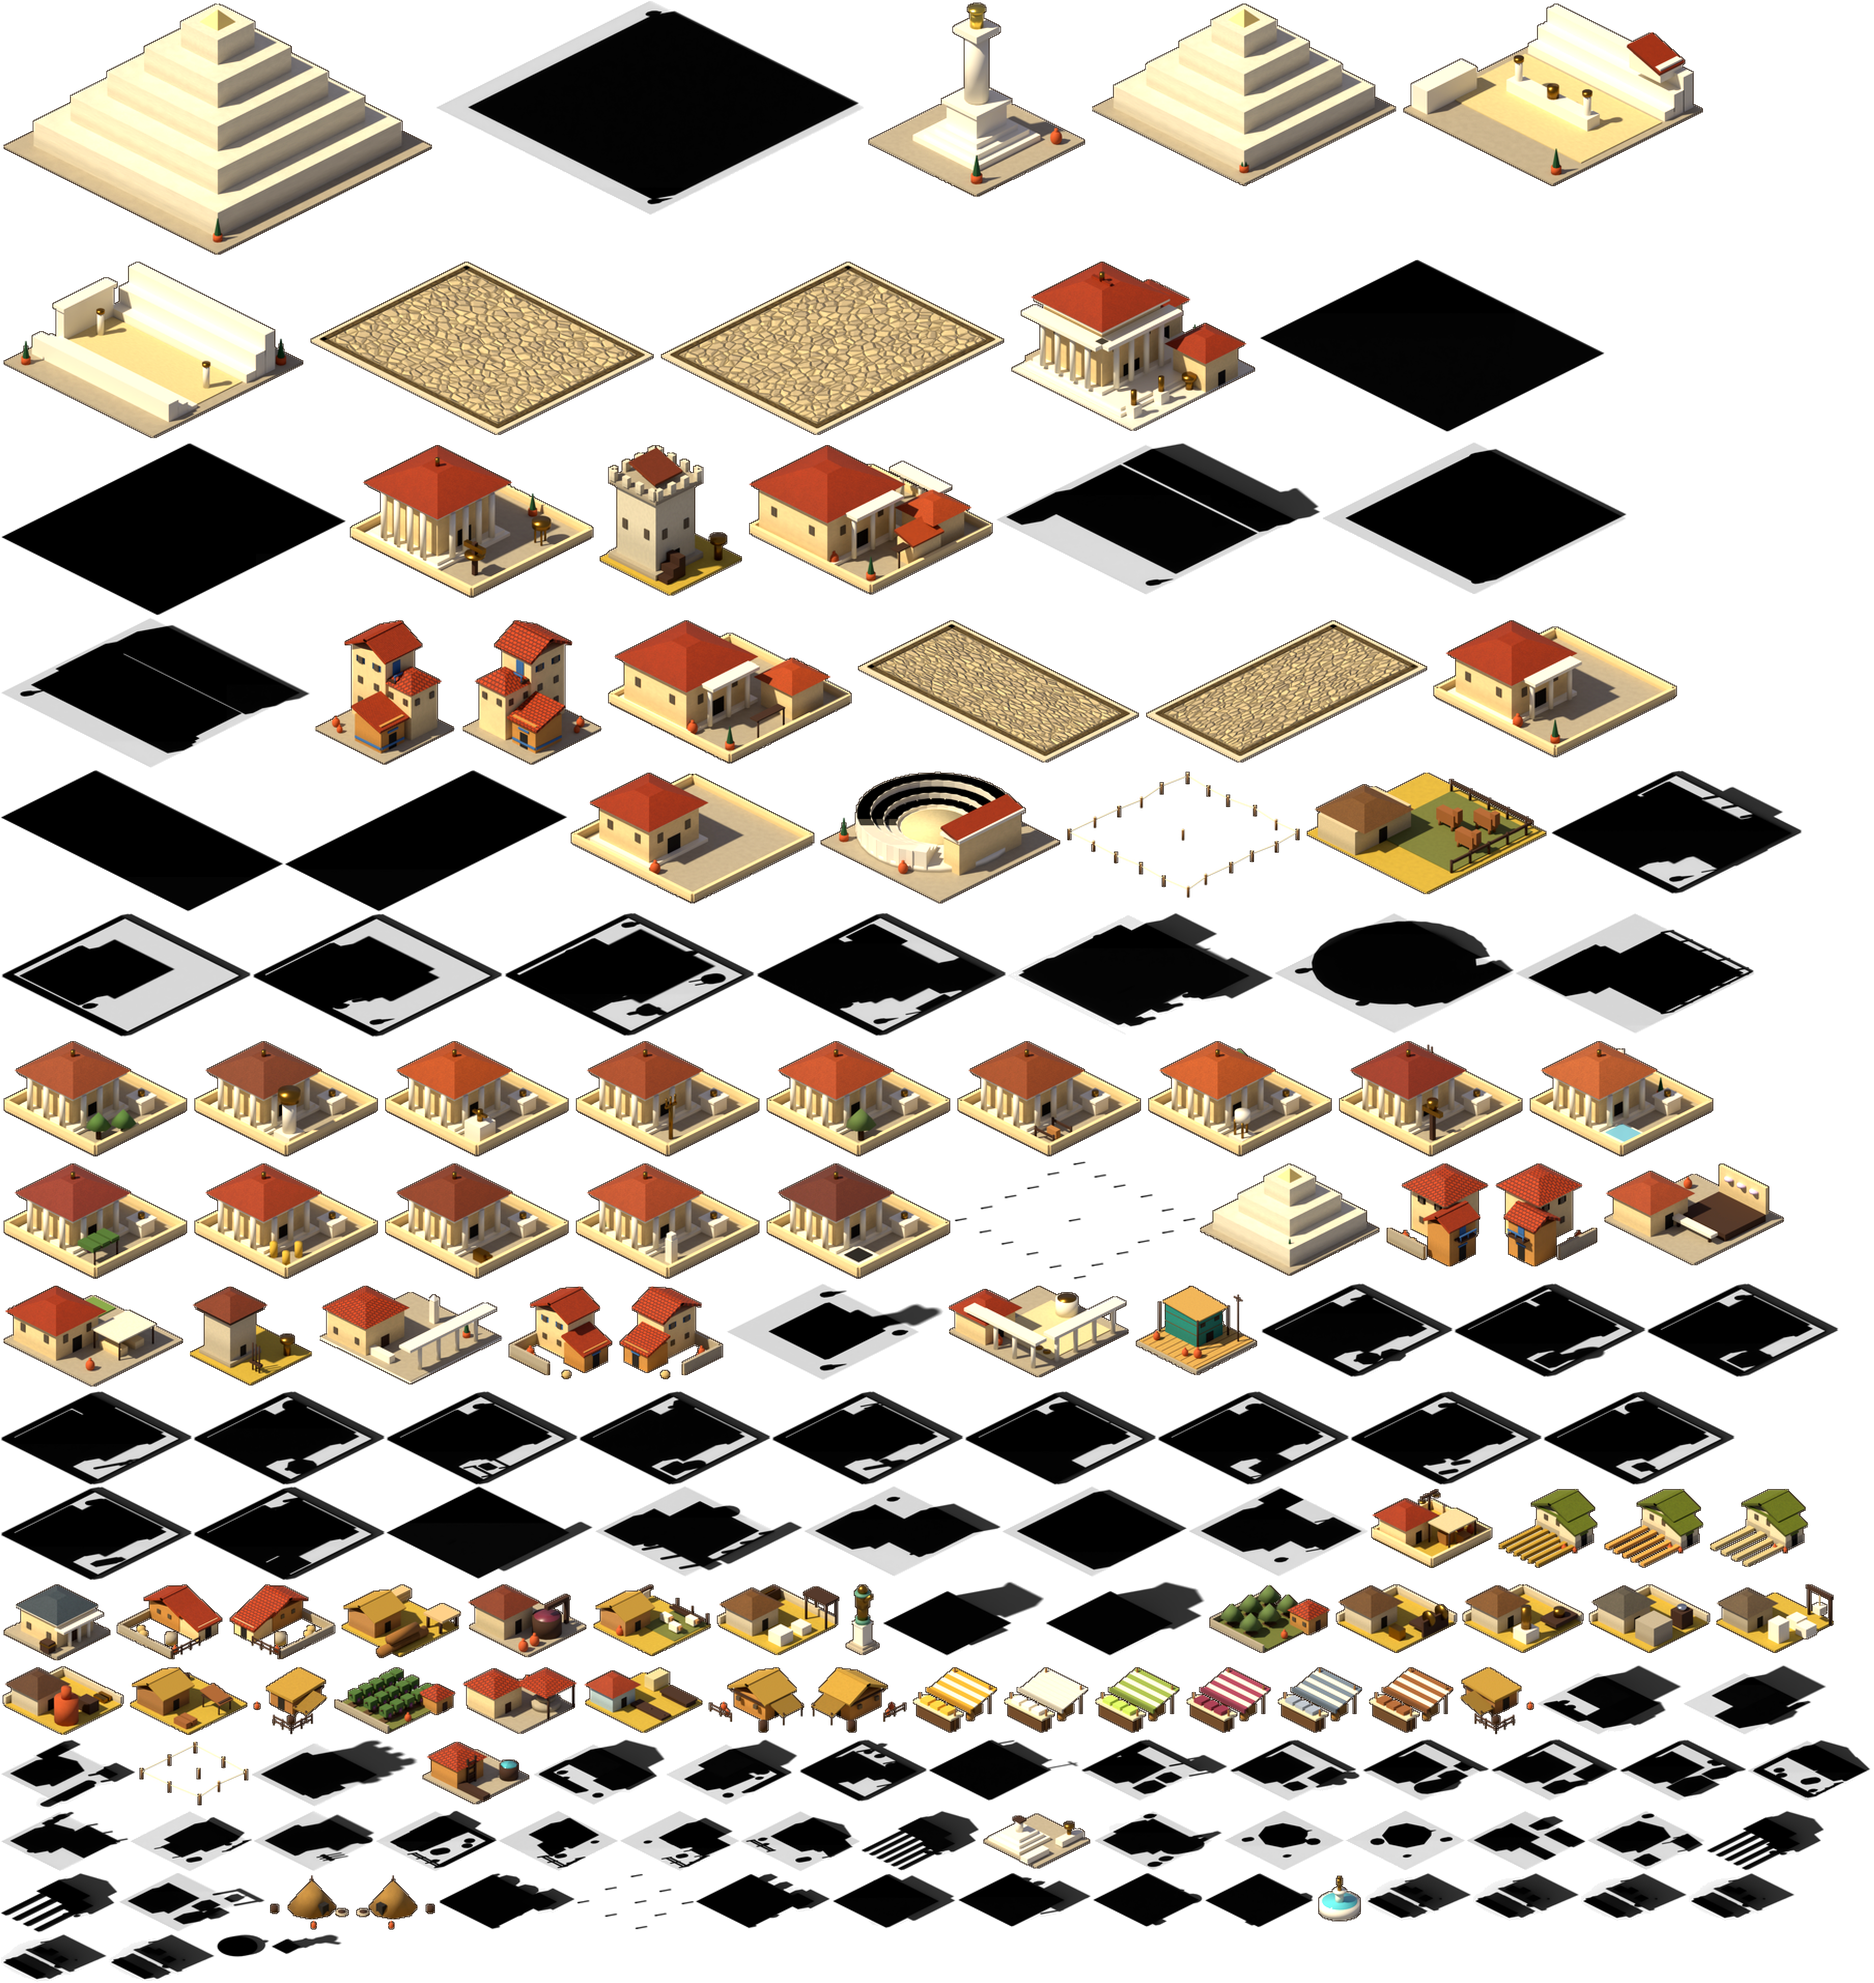
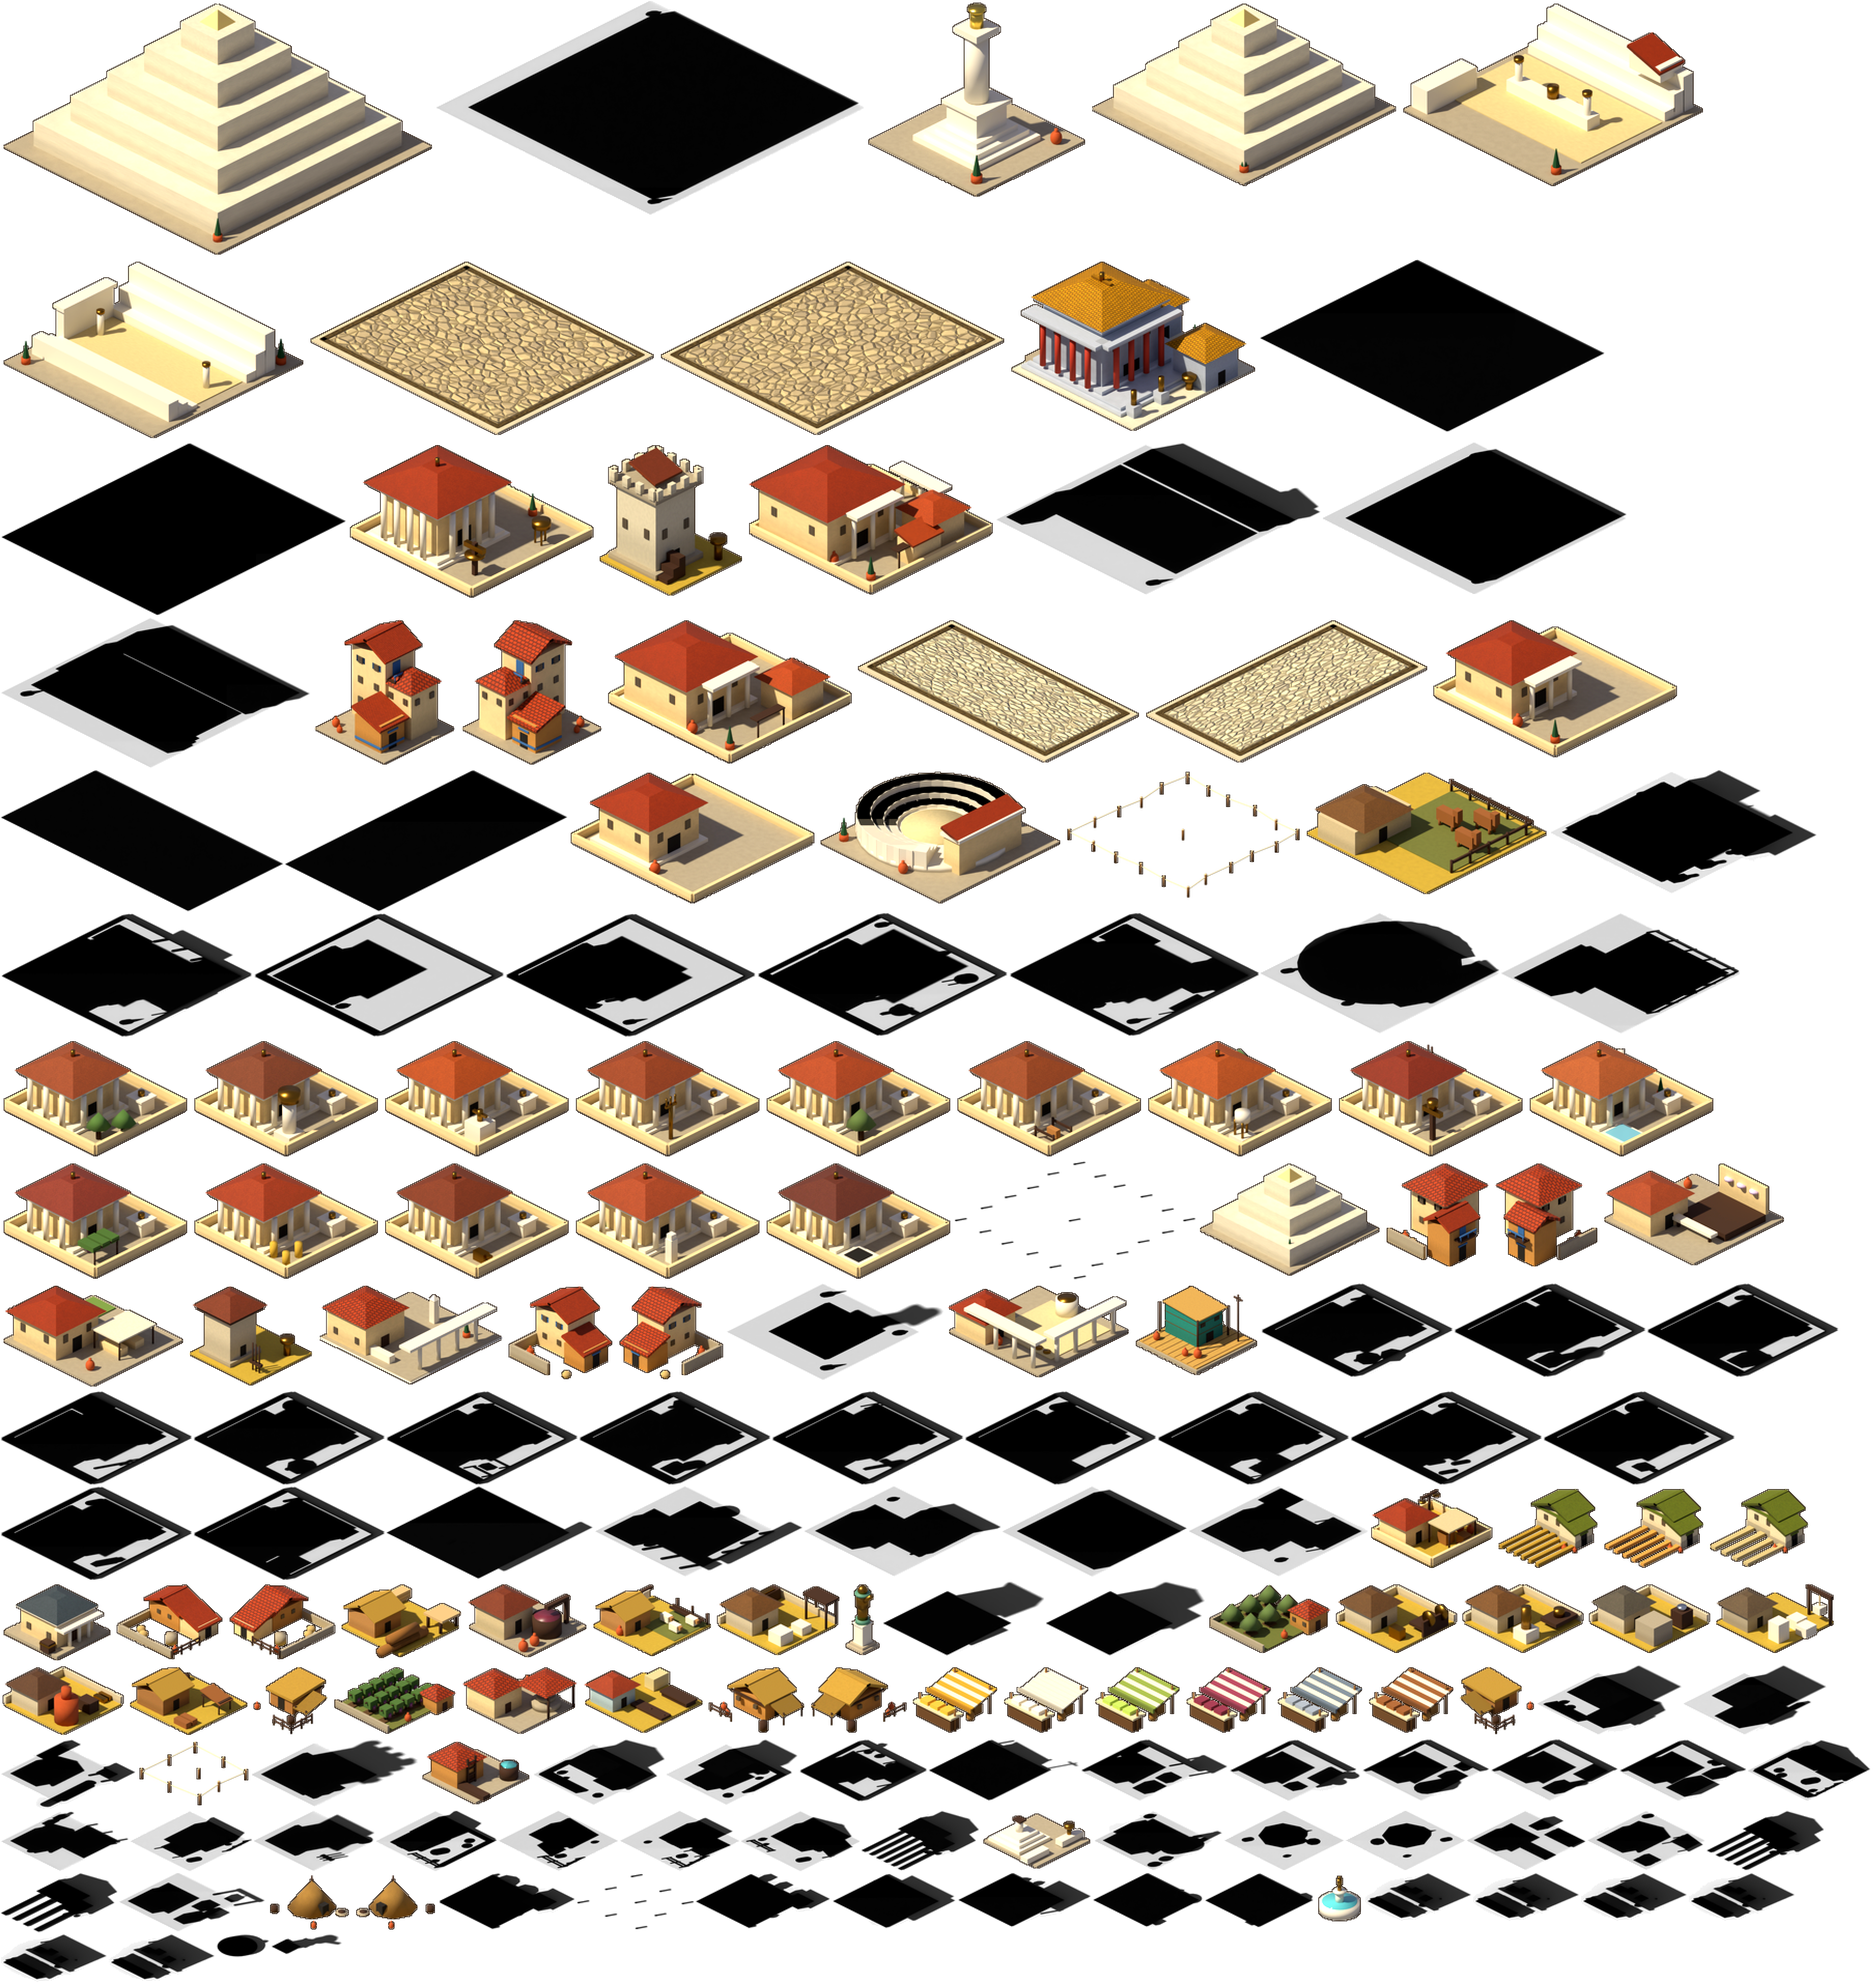
Gild the palace, lighten the agora, pin the map by seed

diff --git a/pipeline/iso_render.py b/pipeline/iso_render.py
@@ -941,7 +941,7 @@ def build_granary():
 def build_agora(kind, across, along, variant):
     """The agora itself is only its floor: cobbles inside a marble kerb, with a dark
     inlay running round them. Everything on it is a stall the player puts there."""
-    cobbles = cobble_material("cobbles", hex_rgb("cdbc98"), stones_per_unit=10.0, spread=0.26)
+    cobbles = cobble_material("cobbles", hex_rgb("ece2c2"), stones_per_unit=10.0, spread=0.22)
     kerb = plaster_material("kerb", hex_rgb("e0d6ba"), roughness=0.6, variation=0.04, scale=9.0)
     inlay = cobble_material("inlay", hex_rgb("947c4e"), stones_per_unit=14.0, spread=0.14)
 
@@ -1137,15 +1137,17 @@ def build_tax_office():
 
 
 def build_palace():
-    """Palace: a colonnaded hall on a stepped marble terrace, flanked by wings and statues."""
-    marble = material("marble", MARBLE, roughness=0.3)
-    paving = plaster_material("paving", MARBLE, roughness=0.6, variation=0.03, scale=18.0)
-    whitewash = plaster_material("whitewash", WHITEWASH, roughness=0.84, variation=0.04, scale=6.0)
-    terracotta = roof_material("terracotta", TERRACOTTA, rows_per_unit=18.0)
+    """Palace: a colonnaded hall on a stepped marble terrace, flanked by wings and statues.
+    Coloured as the original's: gold-glazed tile, blue-grey marble, red columns."""
+    marble = plaster_material("marble", hex_rgb("c9d0dc"), roughness=0.5, variation=0.1, scale=8.0)
+    paving = plaster_material("paving", hex_rgb("e8e2cc"), roughness=0.7, variation=0.08, scale=18.0)
+    whitewash = plaster_material("whitewash", hex_rgb("b9c2d2"), roughness=0.8, variation=0.14, scale=6.0)
+    terracotta = roof_material("gold_tile", hex_rgb("d9a020"), rows_per_unit=6.0)
     stone = plaster_material("stone", STONE, roughness=0.8, variation=0.05, scale=10.0)
     bronze = material("bronze", BRONZE, roughness=0.35, metallic=1.0)
     clay = material("clay", CLAY, roughness=0.8)
     cypress = material("cypress", CYPRESS, roughness=0.9)
+    column = material("column_red", hex_rgb("a83a2a"), roughness=0.7)
 
     terrace = add_box("terrace", (0, 0, 0.03), (3.9, 3.9, 0.06), paving)
     terrace.visible_shadow = False
@@ -1169,9 +1171,9 @@ def build_palace():
     add_cylinder("finial", (hx, hy, roof_z + roof_h + 0.12), 0.06, 0.2, bronze, vertices=10)
 
     for offset in (-0.72, -0.24, 0.24, 0.72):
-        add_cylinder("column_east", (hx + hall_half + 0.24, hy + offset, base_z + 0.1 + 0.6), 0.07, 1.2, marble, vertices=16)
+        add_cylinder("column_east", (hx + hall_half + 0.24, hy + offset, base_z + 0.1 + 0.6), 0.07, 1.2, column, vertices=16)
         add_box("capital_east", (hx + hall_half + 0.24, hy + offset, base_z + 0.1 + 1.22), (0.18, 0.18, 0.06), marble)
-        add_cylinder("column_south", (hx + offset, hy - hall_half - 0.24, base_z + 0.1 + 0.6), 0.07, 1.2, marble, vertices=16)
+        add_cylinder("column_south", (hx + offset, hy - hall_half - 0.24, base_z + 0.1 + 0.6), 0.07, 1.2, column, vertices=16)
         add_box("capital_south", (hx + offset, hy - hall_half - 0.24, base_z + 0.1 + 1.22), (0.18, 0.18, 0.06), marble)
     add_box("portico_east", (hx + hall_half + 0.24, hy, base_z + 1.36), (0.44, hall_half * 2 + 0.5, 0.1), marble)
     add_box("portico_south", (hx, hy - hall_half - 0.24, base_z + 1.36), (hall_half * 2 + 0.5, 0.44, 0.1), marble)

diff --git a/README.md b/README.md
@@ -266,7 +266,17 @@ identified by eye from the contact sheets and may be off by one.
 
 **Before finishing any art change, run `compare.py` for the kinds touched and look at
 it.** Name three differences that remain. If the terrain changed, take a `noon.mjs`
-shot and measure it against `palette.json`.
+shot and measure it against `palette.json`. `?seed=7` on the URL pins the map, so
+shots are comparable run to run:
+
+```bash
+bun scripts/noon.mjs "http://localhost:5180/?seed=7" /tmp/city.png 400 1
+```
+
+What the reference settled so far: the common ground is the ochre scrub, not green;
+green grass gathers by the water; the sun is front-left and high, lit walls are a
+cream-yellow, roofs are five or six rows of tile, every silhouette is inked; a
+townhouse is two units tall on a two-unit plot; houses do not smoke.
 
 ## Art licence
 
